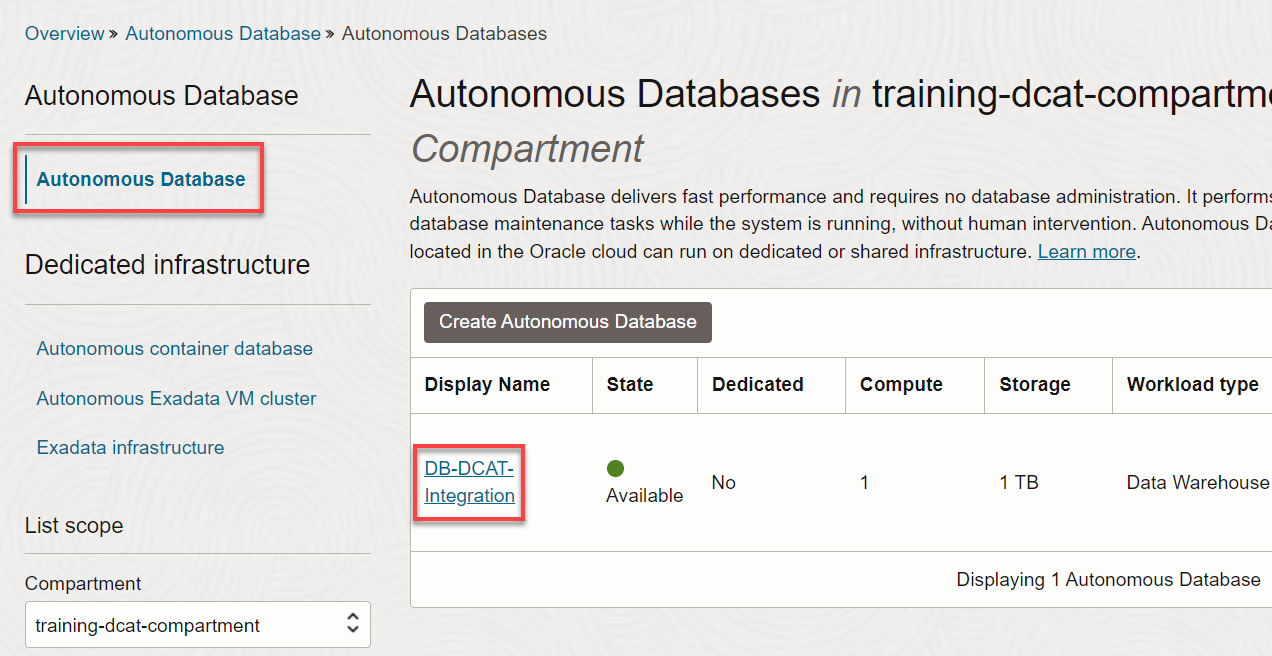
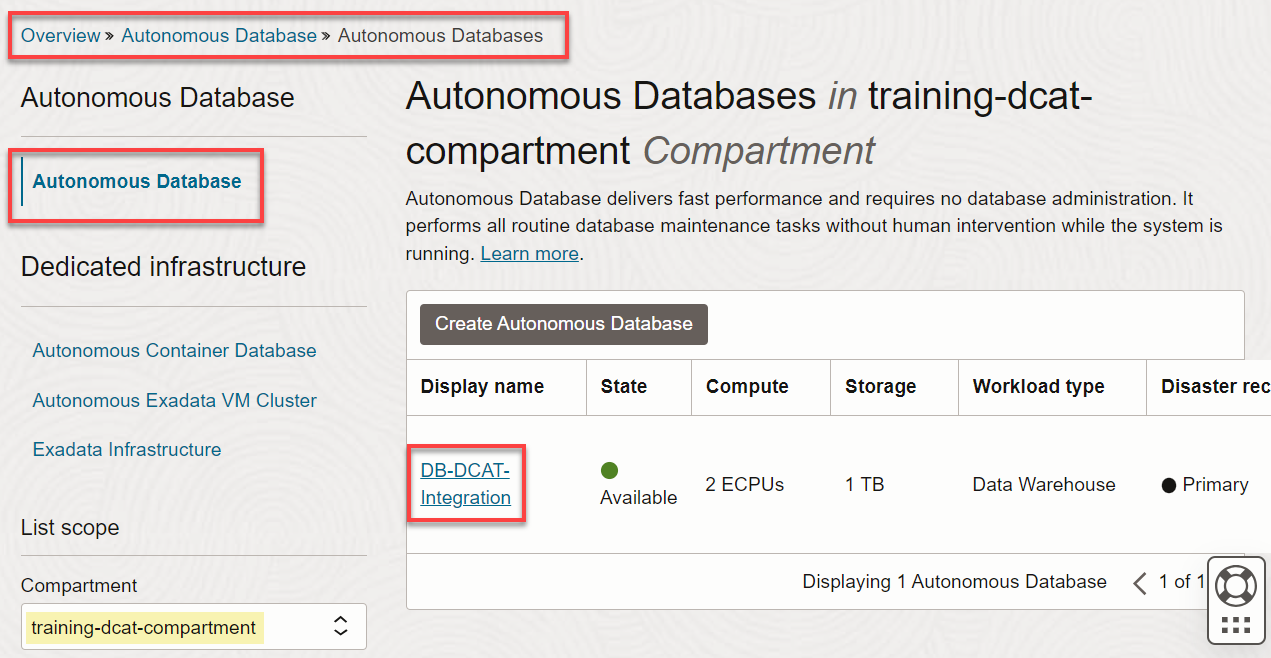
changes to adb-dcat workshop

diff --git a/shared/data-catalog/dcat-adb-integrate/setup-workshop-environment/setup-workshop-environment.md b/shared/data-catalog/dcat-adb-integrate/setup-workshop-environment/setup-workshop-environment.md
@@ -186,7 +186,6 @@ In this task, you create a new and empty business glossary in the newly created 
 
    ![The Glossaries tab and the Create Glossary button are highlighted.](./images/click-create-glossary.png " ")
 
-
 4. Click **Create Glossary**. The **Create Glossary** panel is displayed. Enter **`MovieStream Application`** in the **Name** field and **`Describes the assets related to the MovieStream data`** in the **Description** field, and then click **Create**.
 
    ![The Create button on the completed Create Glossary panel is highlighted.](./images/ll-create-glossary-panel.png " ")
@@ -323,65 +322,66 @@ After you have created a dynamic group, you need to create a policy to permit th
 3. On the **Autonomous Databases** page, make sure **`training-dcat-compartment`** is selected in the **Compartment** drop-down list in the **List Scope** section. click **Create Autonomous Database**. The **Create Autonomous Database** page is displayed.
 
 4. In the **Provide basic information for the Autonomous Database** section, specify the following:
-       * **Compartment:** **`training-dcat-compartment`**.
-       * **Display Name:** **`DB-DCAT-Integration`**.
-       * **Database Name:** **`TrainingADB`**.
+    * **Compartment:** **`training-dcat-compartment`**.
+    * **Display Name:** **`DB-DCAT-Integration`**.
+    * **Database Name:** **`TrainingADB`**.
 
-       ![The completed "Provide basic information for the Autonomous Database" section is diaplyed.](./images/adb-basic-info.png " ")
+        ![The completed "Provide basic information for the Autonomous Database" section is diaplyed.](./images/adb-basic-info.png " ")
 
 5. In the **Choose a workload type** section, accept the **Data Warehouse** default selection.
 
-       ![The selected Data Warehouse option of the "Choose a workload type" section is displayed and highlighted.](./images/adb-workload-type.png " ")
+    ![The selected Data Warehouse option of the "Choose a workload type" section is displayed and highlighted.](./images/adb-workload-type.png " ")
 
 6. In the **Choose a deployment type** section, accept the **Serverless** default selection.
 
-       ![The selected Shared Infrastructure option of the "Choose a deployment type" section is displayed and highlighted.](./images/adb-deployment-type.png " ")
+    ![The selected Shared Infrastructure option of the "Choose a deployment type" section is displayed and highlighted.](./images/adb-deployment-type.png " ")
 
 7. In the **Configure the database** section, specify the following:
 
-       * **Always Free:** Disabled. If your Cloud Account is an Always Free account, you can select this option to create an Always Free autonomous database.
-       * **Choose database version:** **`19c`**.
-       * **OCPU count:** **`1`**.
-       * **OCPU auto scaling:** Select this checkbox. This allows the system to automatically use up to three times more CPU and IO resources to meet the workload demand.
-       * **Storage (TB):** **`1`** (TB).
-       * **Storage auto scaling:** Leave the checkbox unchecked.
+    * **Always Free:** An Always Free database is especially useful for development and trying new features. You can deploy an Always Free instance in an Always Free account or a paid account. The only option you can specify in an Always Free database is the database version.  For this lab, we recommend that you leave the **Always Free** option disabled unless you are in an Always Free account.
+    * **Choose database version:** Accept the default selection.
+    * **ECPU count:** **`2`**.
+    * **Compute auto scaling:** Leave the checkbox checked (default).
+    * **Storage (TB):** **`1`** (TB).
+    * **Storage auto scaling:** Leave the checkbox unchecked (default).
 
-       ![The completed "Configure the database" section is displayed.](./images/adb-configure-db.png " ")
+        ![The completed "Configure the database" section is displayed.](./images/adb-configure-db-ecpu.png " ")
 
-       >**Note:** If you are using a Free Trial or Always Free account, and you want to use Always Free Resources, you need to be in a region where Always Free Resources are available. You can see your current default **region** in the top, right hand corner of the page.
+8. In the **Backup retention** section, you can either accept the default value or specify your own preferred backup retention days value. Accept the default **60** days default value.
 
-8. In the **Create administrator credentials** section, specify the following:
+    ![The Backup retention section is displayed.](./images/backup-retention.png " ")
 
-       * **Username _Read-Only_:** This read-only field displays the default username, **`ADMIN`**.
-       **Important:** Make a note of this _username_ as you will need it to perform later tasks.
-       * **Password:** Enter a password for the **`ADMIN`** user of your choice such as **`Training4ADB`**.
-       **Important:** Make a note of this _password_ as you will need it to perform later tasks.
-       * **Confirm password:** Confirm your password.
+9. In the **Create administrator credentials** section, specify the following:
 
-       ![The completed "Create administrator credentials" section is displayed.](./images/adb-admin-credentials.png " ")
+    * **Username _Read-Only_:** This read-only field displays the default username, **`ADMIN`**.
+    **Important:** Make a note of this _username_ as you will need it to perform later tasks.
+    * **Password:** Enter a password for the **`ADMIN`** user of your choice such as **`Training4ADB`**.
+    **Important:** Make a note of this _password_ as you will need it to perform later tasks.
+    * **Confirm password:** Confirm your password.
 
-9. In the **Choose network access** section, select the **Secure access from everywhere** access type.
+        ![The completed "Create administrator credentials" section is displayed.](./images/adb-admin-credentials.png " ")
+
+10. In the **Choose network access** section, select the **Secure access from everywhere** access type.
 
     ![The selected "Secure access from everywhere" option of the "Choose network access" section is displayed and highlighted.](./images/adb-network-access.png " ")
 
-10. In the **Choose a License and Oracle Database Edition** section, specify the following:
+11. In the **Choose a license and Oracle Database edition** section, accept the default selection, **This Database is provisioned with License included license type**.
 
-    * **Choose a license type:** Select the __Bring Your Own License (BYOL)__ option. Select this type when your organization has existing database licenses.
-    * **Choose an Oracle Database Edition:** Select the __Oracle Database Enterprise Edition (EE)__.
+    ![Accept the default license selection.](./images/license-default.png " ")
 
-        ![The selected Bring Your Own License (BYOL) option of the "Choose a license type" section is displayed and highlighted. The Create Autonomous Database button is highlighted.](./images/adb-license-type.png " ")
+12. Click __Create Autonomous Database__.
 
-11. Click __Create Autonomous Database__.
+13.  The **Autonomous Database Details** page is displayed. The status of your ADB instance is **PROVISIONING**.
 
-12.  The **Autonomous Database Details** page is displayed. The status of your ADB instance is **PROVISIONING**.
+    ![The breadcrumbs and PROVISIONING Status on the Autonomous Database Details page are highlighted.](./images/adw-provisioning.png " ")
 
-    ![The breadcrumbs and PROVISIONING Status on the Autonomous Database Details page are highlighted.](./images/adb-provisioning.png " ")
+    A **Check database lifcycle state** informational box is displayed. You can navigate through this tour or choose to skip it. Click **Skip tour**. A **Skip guided tour** dialog box is displayed. Click **Skip**.
 
-    In a few minutes, the instance status changes to **AVAILABLE**. At this point, your Autonomous Data Warehouse database instance is ready to use! Review your instance's details including its name, database version, OCPU count, and storage size.
+    In a few minutes, the instance status changes to **AVAILABLE**. At this point, your Autonomous Data Warehouse database instance is ready to use! Review your instance's details including its name, database version, ECPU count, and storage size.
 
-    ![The breadcrumbs and AVAILABLE Status on the Autonomous Database Details page are highlighted. The Autonomous Database Information tab displays many details about your provisioned database.](./images/adb-provisioned.png " ")
+    ![The breadcrumbs and AVAILABLE Status on the Autonomous Database Details page are highlighted. The Autonomous Database Information tab displays many details about your provisioned database.](./images/adw-provisioned.png " ")
 
-13. Click the **Autonomous Database** link in the breadcrumbs. The **Autonomous Database** page is displayed. The new Autonomous Database instance is displayed.
+14. Click the **Autonomous Database** link in the breadcrumbs. The **Autonomous Database** page is displayed. The new Autonomous Database instance is displayed.
 
     ![The provisioned Autonomous Database instance is displayed on the Autonomous Databases page. The state of the instance is AVAILABLE.](./images/adb-page.png " ")
 
@@ -403,7 +403,7 @@ You may now proceed to the next lab.
 ## Acknowledgements
 * **Author:** Lauran Serhal, Consulting User Assistance Developer, Oracle Database and Big Data
 * **Contributor:** Marty Gubar, Product Manager, Server Technologies
-* **Last Updated By/Date:** Lauran Serhal, June 2023
+* **Last Updated By/Date:** Lauran Serhal, August 2023
 
 Data about movies in this workshop were sourced from Wikipedia.
 
